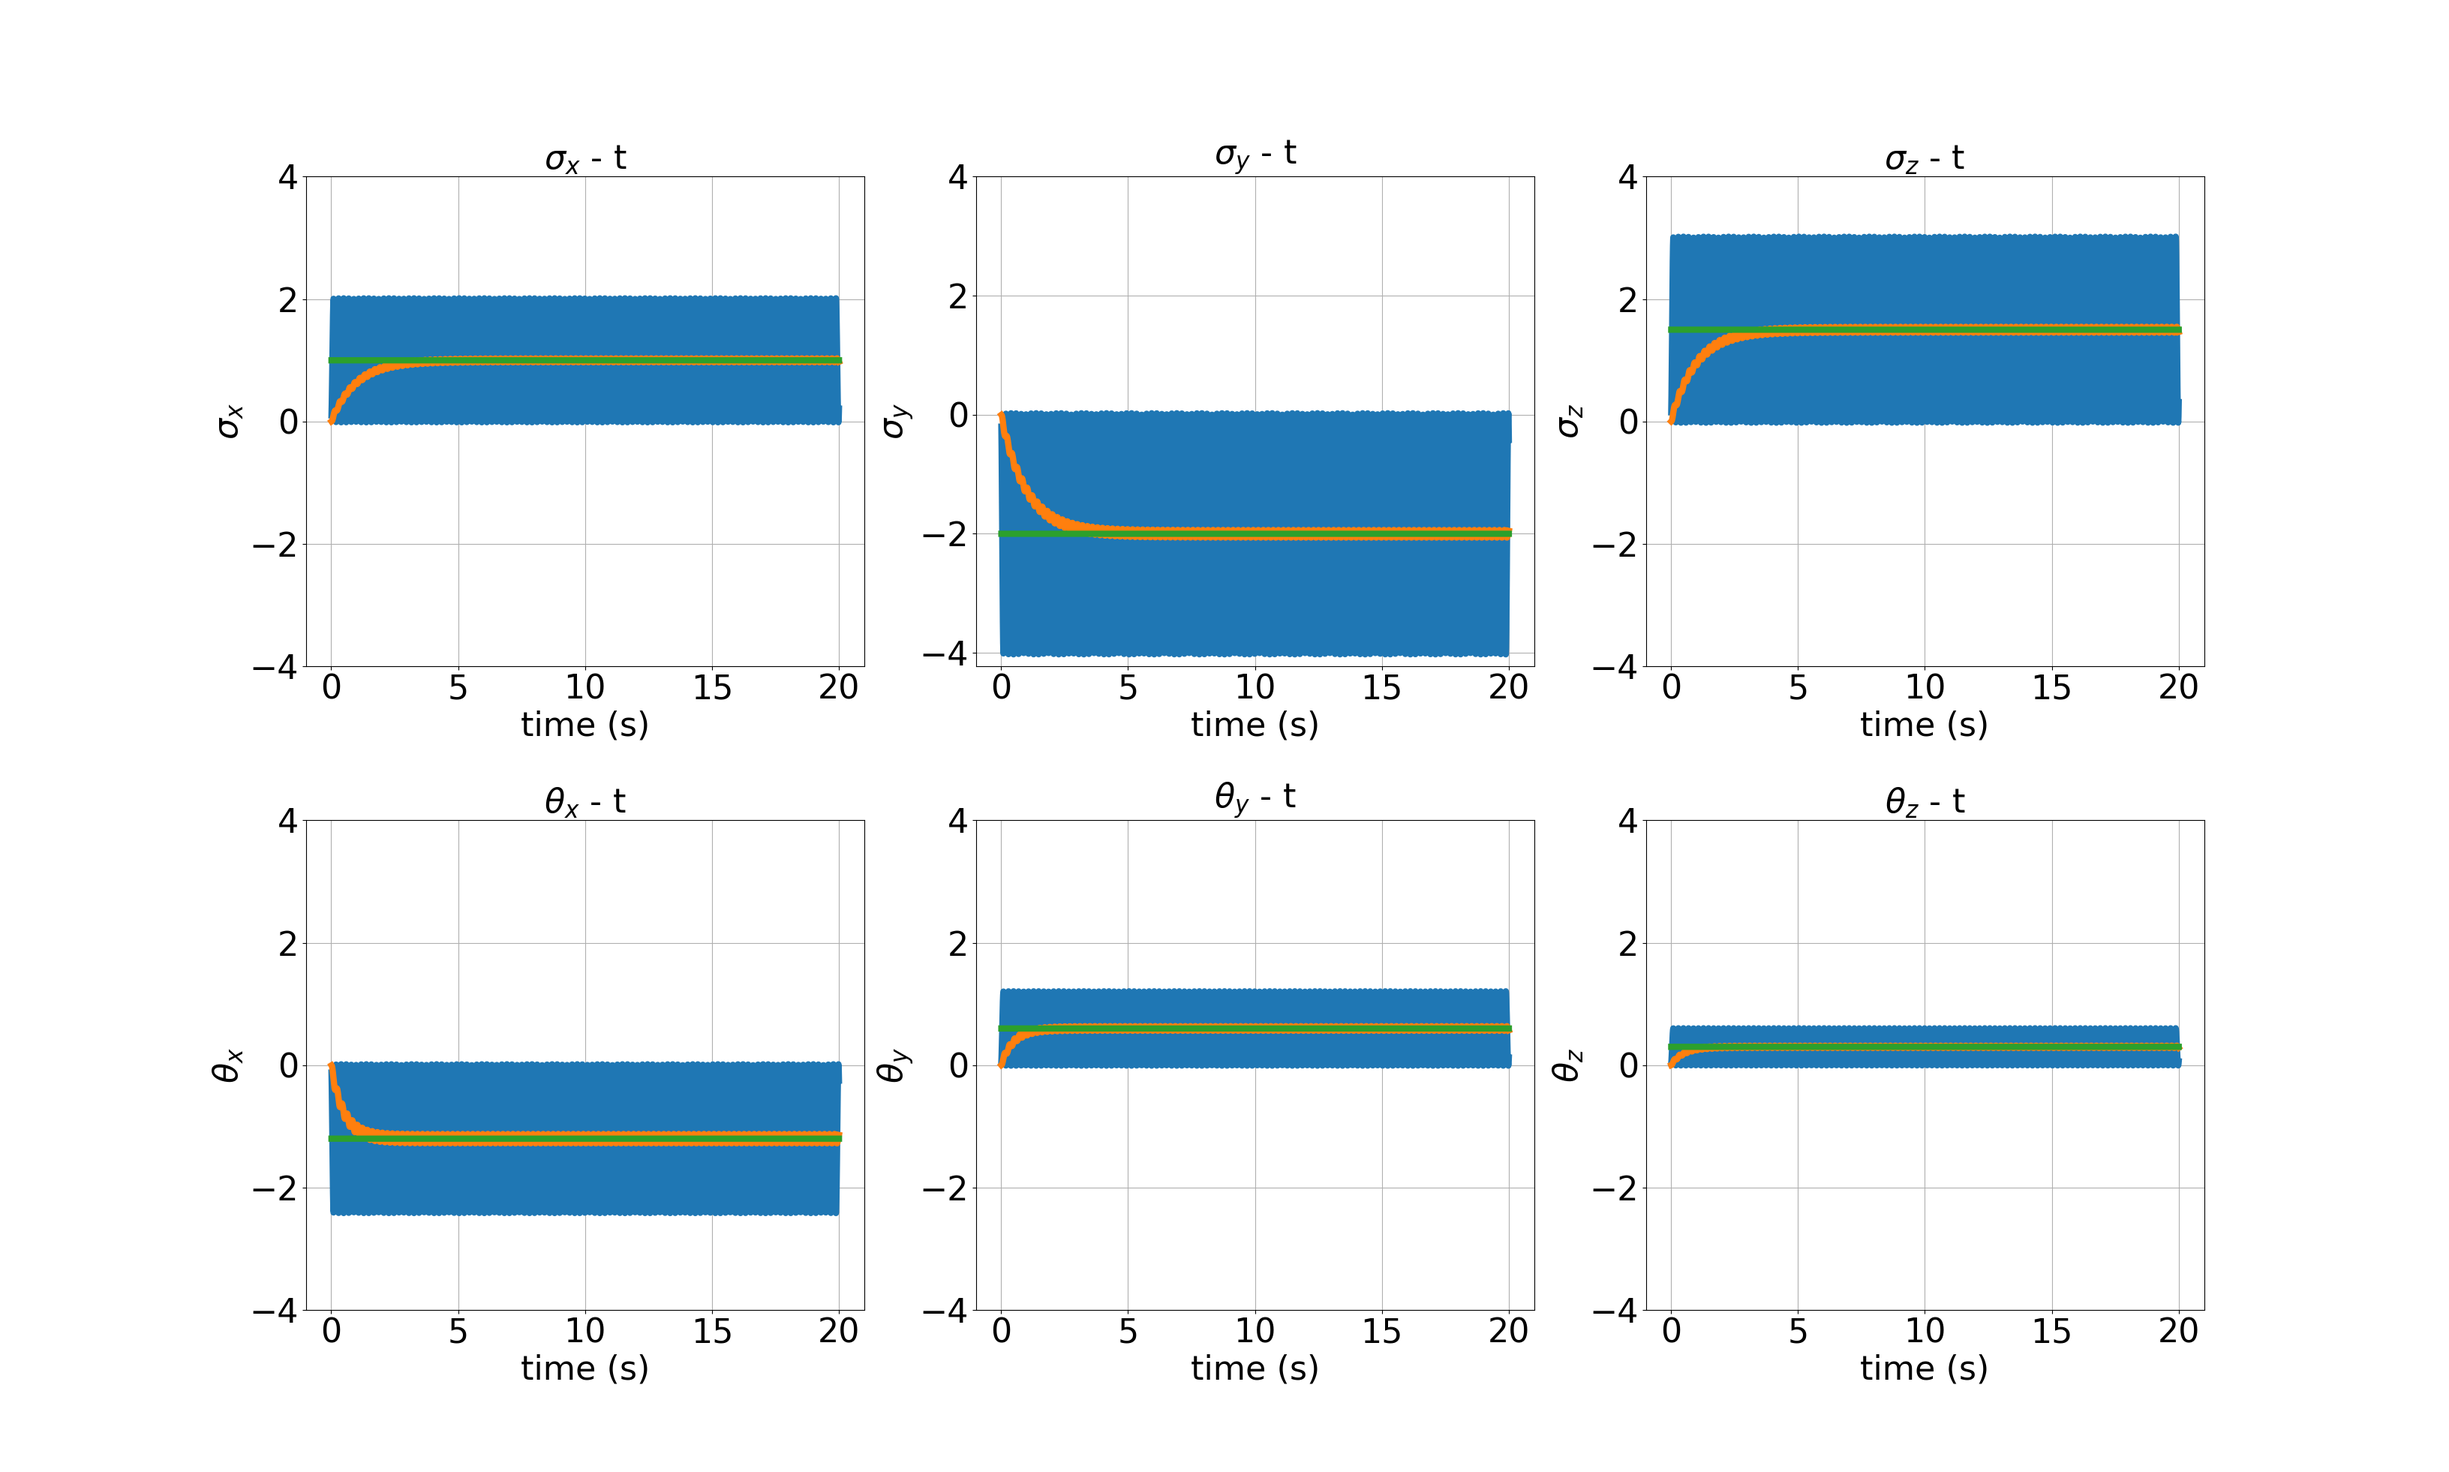
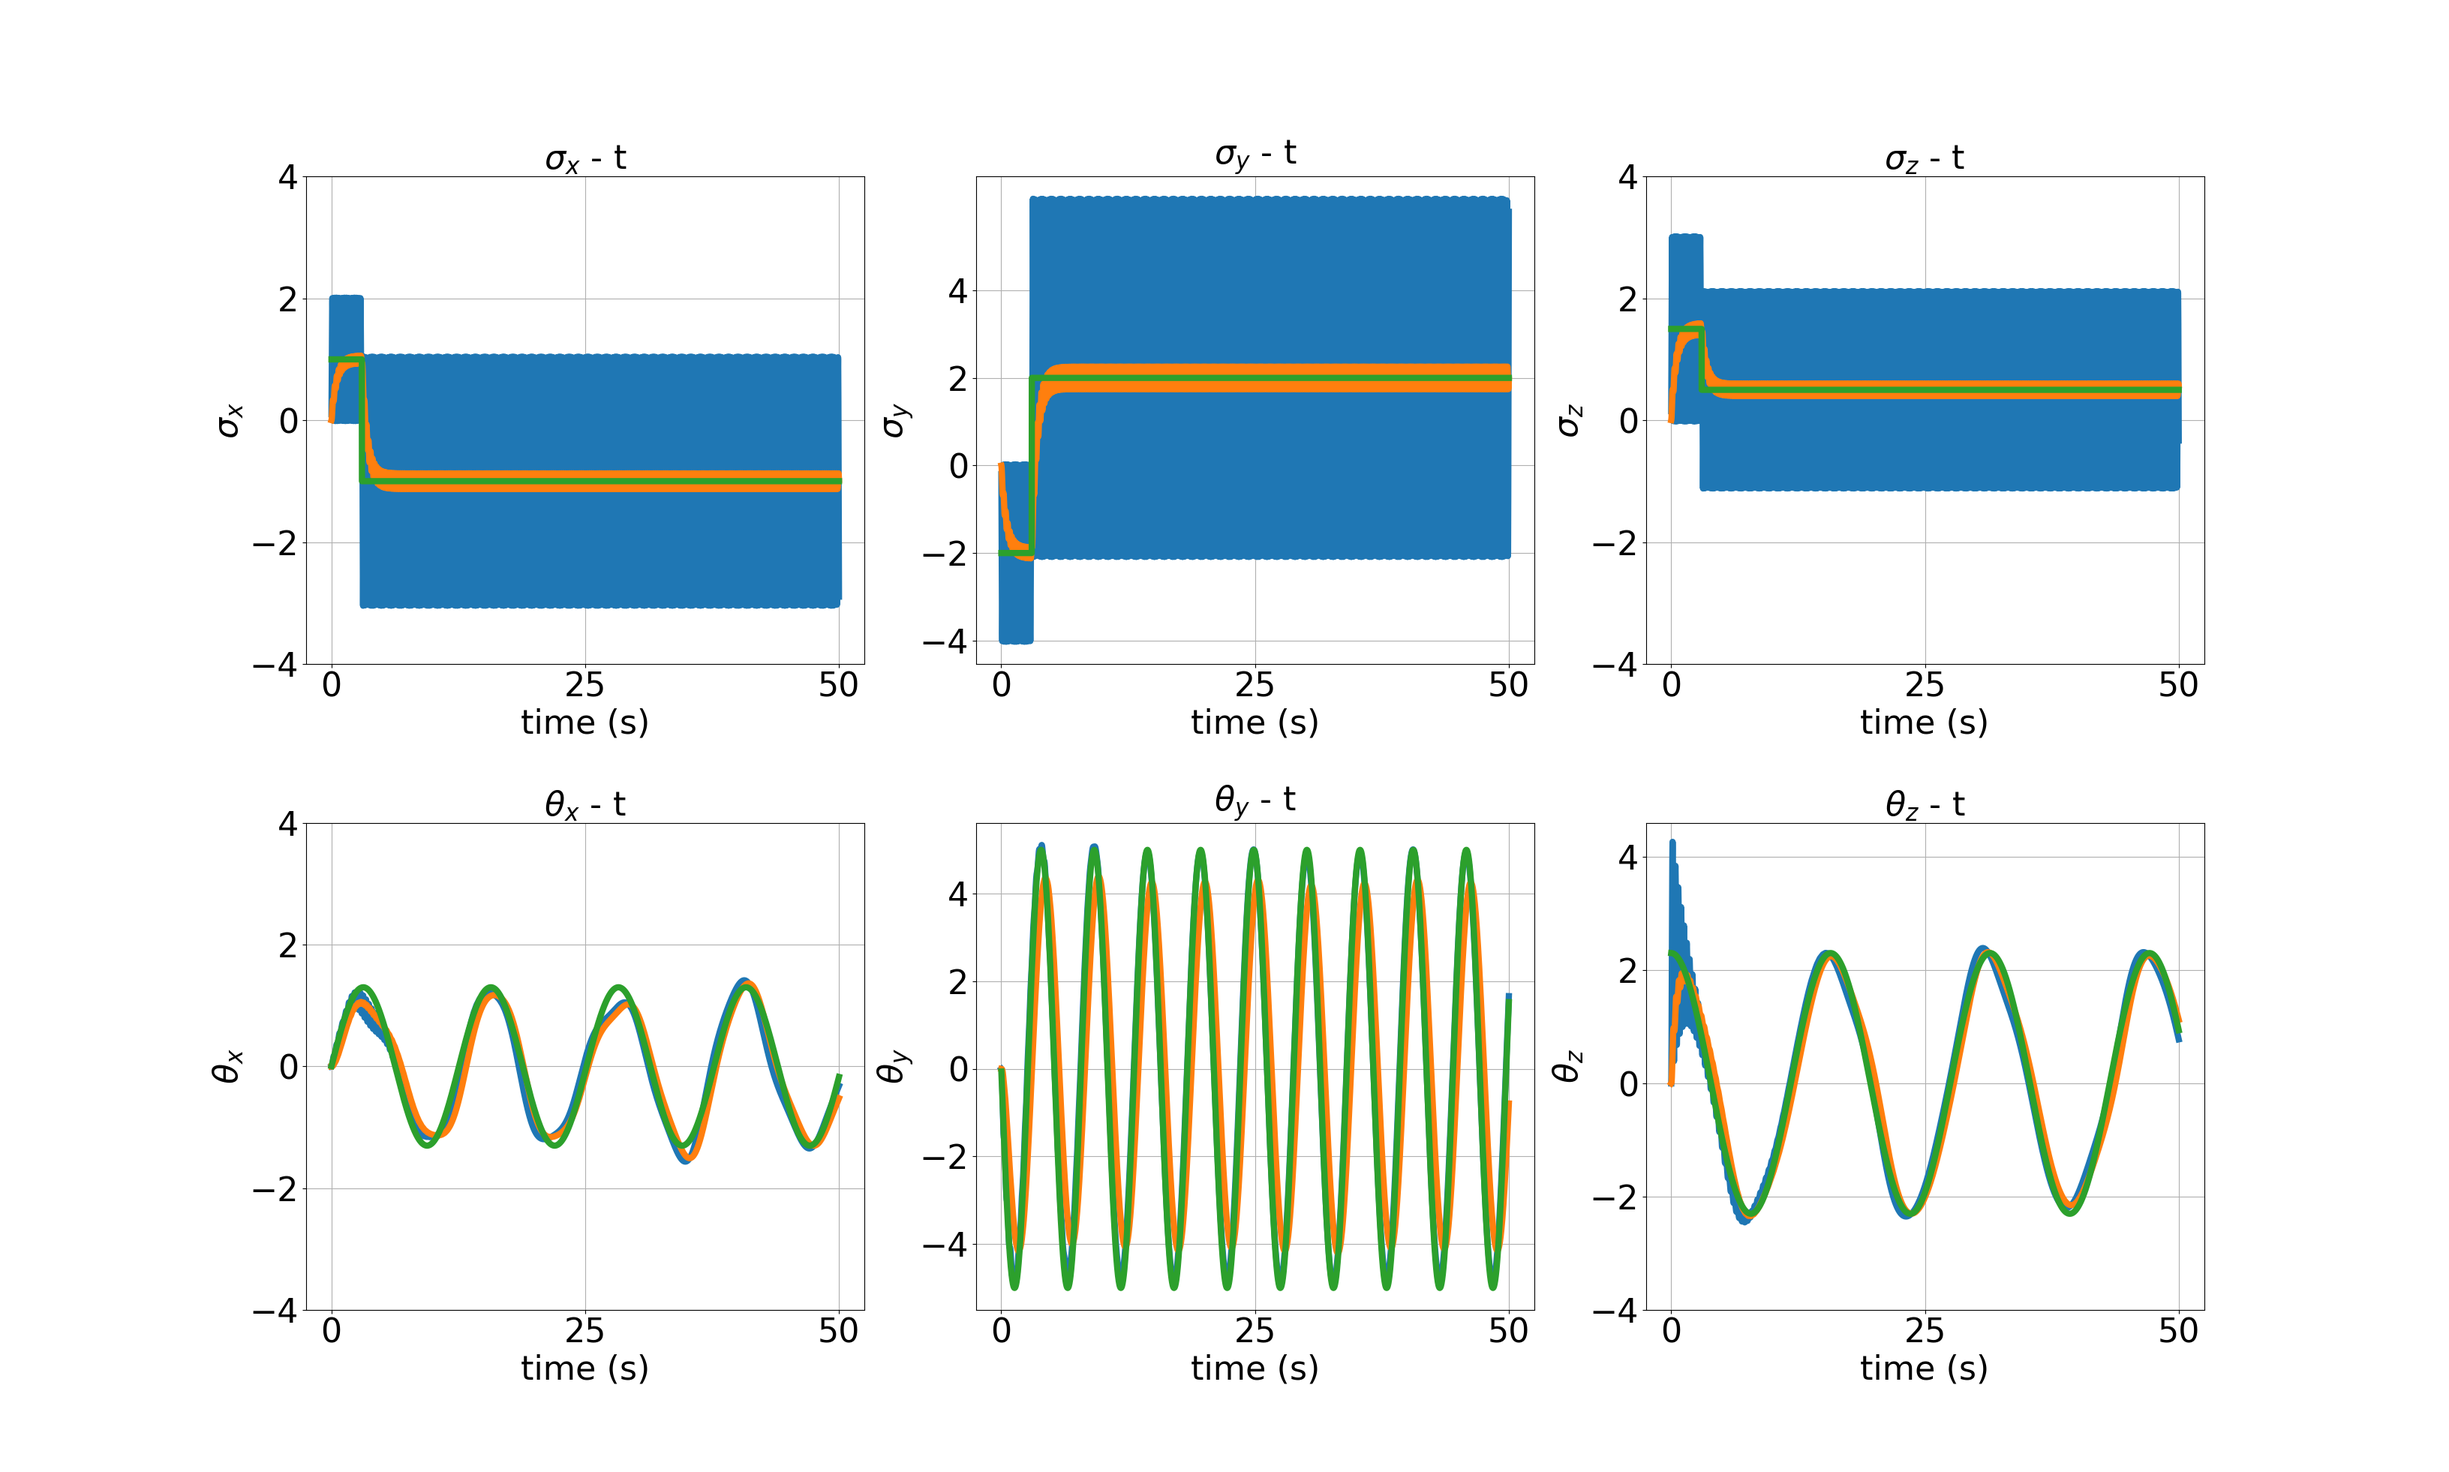
figure changed

diff --git a/src/test.cpp b/src/test.cpp
@@ -64,7 +64,7 @@ int main()
     sigma_est_lpf.setZero();
     
 
-    for(int i = 0; i < 30000; i++)
+    for(int i = 0; i < 5000; i++)
     {
         mat31_t p_state, v_state, w_state;
         quat_t q_state;
@@ -89,13 +89,14 @@ int main()
         if(true_model.get_t() > 3)
             sigma_ext << -1, 2, 0.5;
         theta_ext << 1.3*sin(0.5*true_model.get_t()), 
-        -1.6*sin(1.2*true_model.get_t()),
+        -5*sin(1.2*true_model.get_t()),
         2.3*cos(0.4*true_model.get_t());
         // theta_ext.setZero();
 
         u1.setZero();
         u2.setZero();
 
+        ref_model.set_pos_vel(p_state, v_state);
         ref_model.set_quat_angular_vel(q_state, w_state);
         ref_model.set_est_disturbance(sigma_est, theta_est);
         ref_model.apply_input(u1, u2);
@@ -132,9 +133,8 @@ int main()
     }
 
     x_ticks.push_back(0);
-    x_ticks.push_back(10);
-    x_ticks.push_back(20);
-    x_ticks.push_back(30);
+    x_ticks.push_back(25);
+    x_ticks.push_back(50);
 
     y_ticks.push_back(-4);
     y_ticks.push_back(-2);

diff --git a/include/ref_model.cpp b/include/ref_model.cpp
@@ -55,6 +55,17 @@ mat31_t w_state)
 
 }
 
+void Ref_Model::set_pos_vel(mat31_t p_state, mat31_t v_state)
+{
+    double k_p, k_d;
+    mat31_t p_tilde, v_tilde;
+    k_p = 5;
+    k_d = 2;
+
+    p_tilde = p_hat_ - p_state;
+    v_tilde = v_hat_ - v_state;
+}
+
 void Ref_Model::set_est_disturbance(mat31_t sigma_est, mat31_t theta_est)
 {
     sigma_hat_ = sigma_est;

diff --git a/include/disturbance_estimator.cpp b/include/disturbance_estimator.cpp
@@ -39,7 +39,7 @@ DistEst::DistEst(Inertial_param &nominal_param)
     mat33_t Gamma_Value;
 
     Gamma_Value.setIdentity();
-    Gamma_Value *= 1000.0;
+    Gamma_Value *= 500.0;
 
     conv_fn_obj[0] = ConvFn(bound[0],10);
     conv_fn_obj[1] = ConvFn(bound[1],10);

diff --git a/include/ref_model.hpp b/include/ref_model.hpp
@@ -24,6 +24,8 @@ class Ref_Model{
 
     void set_quat_angular_vel(quat_t q_state, mat31_t w_state);
 
+    void set_pos_vel(mat31_t p_state, mat31_t v_state);
+
     void set_est_disturbance(mat31_t sigma_est,
     mat31_t theta_est);
 

diff --git a/README.md b/README.md
@@ -61,5 +61,3 @@ The blue, orange, and green line denote the raw, L1 estimated disturbance and gr
 <img src="figures/estimator_test_result2.png"/>
 
 <img src="figures/estimator_test_result3.png"/>
-
-<img src="figures/estimator_test_result4.png"/>
